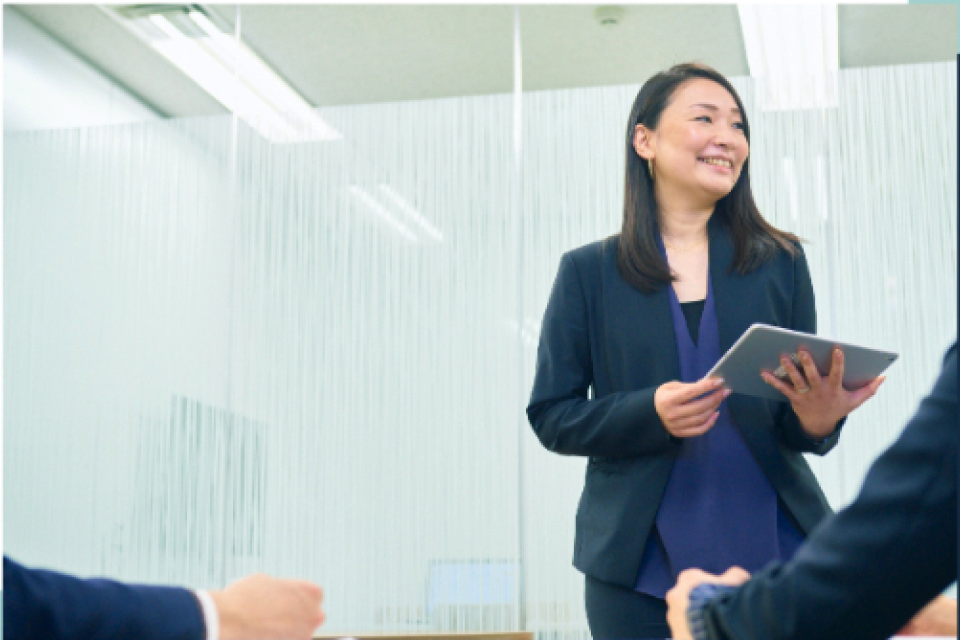
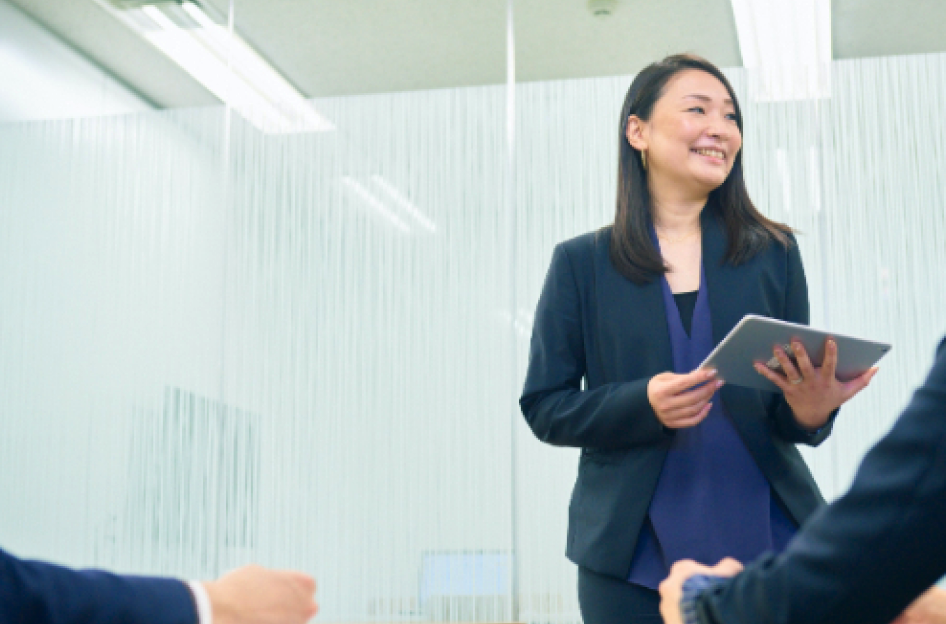
resize png and edit class

diff --git a/src/views/PeoplePage.vue b/src/views/PeoplePage.vue
@@ -23,15 +23,17 @@
 
         <!-- 質問回答セクション -->
         <section class="question col-span-3 col-start-2 flex py-10 pr-5">
-            <div class="left-content w-3/5">
+            <div class="left-content w-3/5 relative">
                 <!-- 画像重ね-->
-                <img src="../assets/people-akiyama2.png" class="pr-24" alt="people2">
+                <div class="bg-white absolute right-40 -top-6 w-4/5 h-80"></div>
+                <div class="relative z-20"><img src="../assets/people-akiyama2.png" class="pr-24" alt="people2"></div>
+                <div class="bg-blue-900 absolute left-14 -bottom-6 w-4/5 h-80"></div>
             </div>
-            <div class="right-content text-center question-vertical">
-                <img src="../assets/loupe.png" class="relative top-6 left-5 pl-7 float-left" width="100" alt="loupe">
-                <p class="text-xs h-3/5 text-right"><span>Question</span></p><br>
-                <p class="text-2xl font-semibold">東急百貨店を</p><br>
-                <p class="text-2xl font-semibold">志望した理由</p>
+            <div class="right-content text-center question-vertical pb-12">
+                <img src="../assets/loupe.png" class="relative left-5 pl-7 float-left" width="100" alt="loupe">
+                <p class="text-xs h-4/6 text-right"><span>Question</span></p><br>
+                <p class="text-2xl font-bold">東急百貨店を</p><br>
+                <p class="text-2xl font-bold">志望した理由</p>
             </div>
         </section>
 
@@ -47,13 +49,13 @@
         </section>
 
         <section class="question col-span-3 col-start-2 flex pt-10 pr-5">
-            <div class="left-content question-vertical h-3/5 mt-16">
+            <div class="left-content question-vertical h-3/5 mt-16 ml-10">
                 <img src="../assets/loupe.png" class="relative bottom-20 right-12" width="80" alt="loupe">
                 <p class="text-xs pt-14"><span>Question</span></p><br>
-                <p class="text-2xl pb-9 font-semibold">現在の</p><br>
-                <p class="text-2xl font-semibold">仕事内容</p>
+                <p class="text-2xl pb-9 font-bold">現在の</p><br>
+                <p class="text-2xl font-bold">仕事内容</p>
             </div>
-            <div class="answer right-content ml-40 w-3/5">
+            <div class="answer right-content ml-10 w-3/5">
                 <h4 class="answer-title text-2xl font-bold my-3 tracking-widest"><span class="py-1 px-2 mr-2 font-thin bg-blue-900 text-white">A</span>固定概念に捉われず、お客様ニーズを満たす</h4>
                 <p class="answer-text my-7 text-xs lg:text-md tracking-wider lg:leading-7 text-gray-800">
                     所属する営業企画部では、主に会社全体の販売スケジュール作成や売出計画の策定を行っています。
@@ -72,20 +74,21 @@
             </div>
         </section>
 
-        <section class="question col-span-3 col-start-2 flex pt-10 pr-5">
-            <div class="left-content w-3/5">
-                <!-- 画像重ね-->
-                <img src="../assets/tokyu-department.png" class="pr-24" alt="people2">
+        <section class="question col-span-3 col-start-2 flex pr-5">
+            <div class="left-content w-3/5 relative">
+                <div class="bg-white absolute right-40 -top-7 w-4/5 h-80"></div>
+                <div class="relative z-20"><img src="../assets/tokyu-department.png" class="pr-24" alt="department"></div>
+                <div class="bg-blue-900 absolute left-14 -bottom-6 w-4/5 h-80"></div>
             </div>
-            <div class="right-content question-vertical mt-12">
+            <div class="right-content question-vertical mt-2">
                 <img src="../assets/loupe.png" class="relative top-1 left-5 pl-7 float-left" width="100" alt="loupe">
                 <p class="text-xs pt-24"><span>Question</span></p><br>
-                <p class="text-2xl pb-28 font-semibold">私の</p><br>
-                <p class="text-2xl font-semibold">エピソード</p>
+                <p class="text-2xl pb-28 font-bold">私の</p><br>
+                <p class="text-2xl font-bold">エピソード</p>
             </div>
         </section>
 
-        <section class="answer col-span-3 col-start-2 w-3/5 mx-auto pb-10 pr-5">
+        <section class="answer col-span-3 col-start-2 w-3/5 mx-auto py-5 pr-5">
             <h4 class="answer-title text-2xl font-bold my-3 tracking-widest"><span class="py-1 px-2 mr-2 font-thin bg-blue-900 text-white">A</span>50周年記念イベントで掴んだ自信</h4>
             <p class="answer-text my-7 text-xs lg:text-md tracking-wider lg:leading-7 text-gray-800">
                 2017年に開店から50周年を迎えた本店。その記念日を祝うため、1年程前からお店の歴史について
@@ -99,13 +102,13 @@
         </section>
 
         <section class="question col-span-3 col-start-2 flex pt-10 pr-5">
-            <div class="left-content question-vertical">
+            <div class="left-content question-vertical ml-10">
                 <img src="../assets/loupe.png" class="relative bottom-20 right-12" width="80" alt="loupe">
                 <p class="text-xs pt-20"><span>Question</span></p><br>
-                <p class="text-xl font-semibold">これからの</p><br>
-                <p class="text-xl pb-24 font-semibold">歩み</p>
+                <p class="text-xl font-bold">これからの</p><br>
+                <p class="text-xl pb-24 font-bold">歩み</p>
             </div>
-            <div class="answer right-content ml-40 w-3/5">
+            <div class="answer right-content ml-10 w-3/5">
                 <h4 class="answer-title text-2xl font-bold mb-3 tracking-widest"><span class="py-1 px-2 mr-2 font-thin bg-blue-900 text-white">A</span>沿線生活をイノベートする</h4>
                 <p class="answer-text my-7 text-xs lg:text-md tracking-wider lg:leading-7 text-gray-800">
                     ここ数年で東急百貨店は東急沿線を中心に専門店や小型店を多数出店。東急沿線上で生活されている
